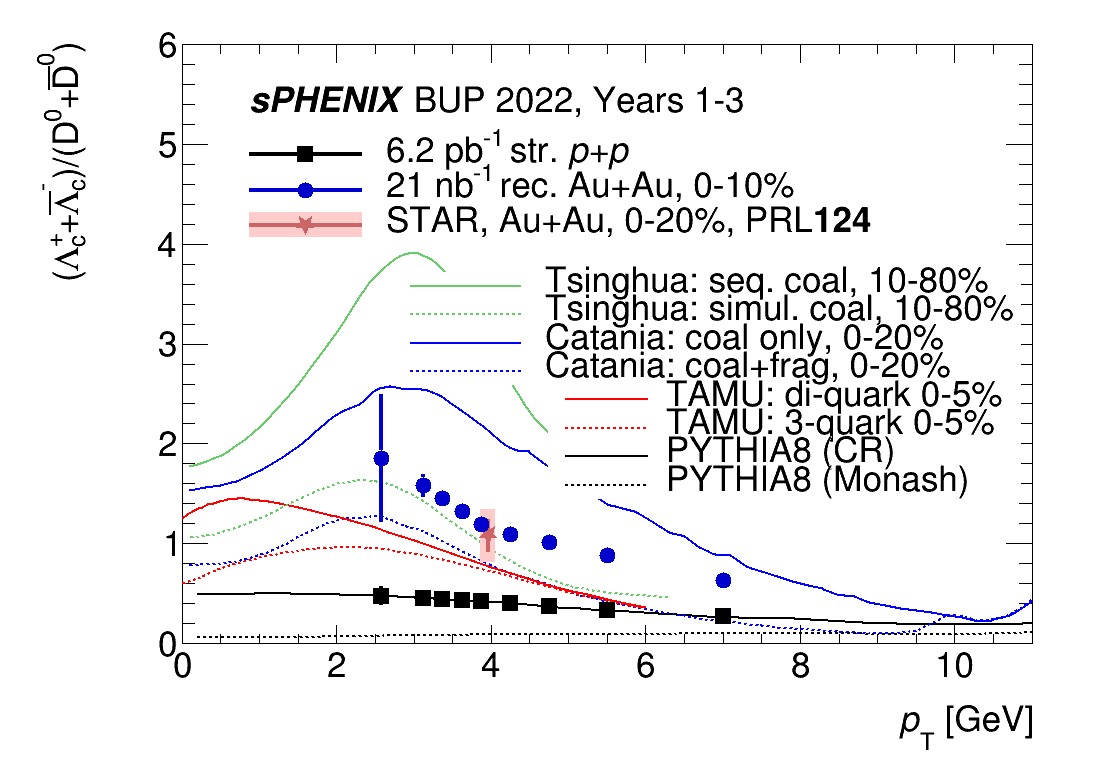
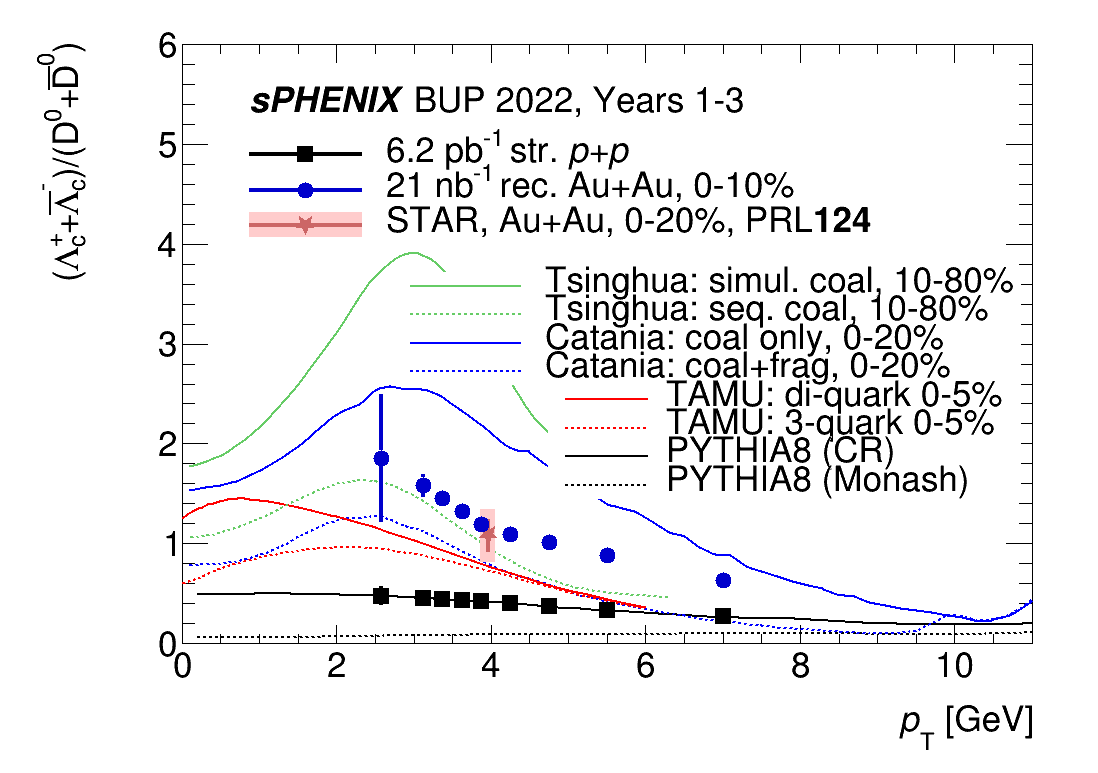
update plot

Changed region(s): [[0.6503, 0.3415, 0.929, 0.4347]]

diff --git a/HF-Particle/Lambda_c/fig/Lc_BUP2022_AuAu_3yr.C b/HF-Particle/Lambda_c/fig/Lc_BUP2022_AuAu_3yr.C
@@ -1,7 +1,7 @@
 void Lc_BUP2022_AuAu_3yr()
 {
 //=========Macro generated from canvas: Lc_BUP2022_AuAu_3yr/Lc_BUP2022_AuAu_3yr
-//=========  (Wed May 11 21:31:03 2022) by ROOT version 6.24/06
+//=========  (Thu May 12 08:26:25 2022) by ROOT version 6.24/06
    TCanvas *Lc_BUP2022_AuAu_3yr = new TCanvas("Lc_BUP2022_AuAu_3yr", "Lc_BUP2022_AuAu_3yr",0,23,1100,800);
    gStyle->SetOptStat(0);
    gStyle->SetOptTitle(0);
@@ -1253,7 +1253,7 @@ void Lc_BUP2022_AuAu_3yr()
    leg->SetLineWidth(1);
    leg->SetFillColor(0);
    leg->SetFillStyle(1001);
-   entry=leg->AddEntry("Graph5","Tsinghua: seq. coal, 10-80%","l");
+   entry=leg->AddEntry("Graph5","Tsinghua: simul. coal, 10-80%","l");
 
    ci = TColor::GetColor("#66cc66");
    entry->SetLineColor(ci);
@@ -1263,7 +1263,7 @@ void Lc_BUP2022_AuAu_3yr()
    entry->SetMarkerStyle(21);
    entry->SetMarkerSize(1);
    entry->SetTextFont(42);
-   entry=leg->AddEntry("Graph4","Tsinghua: simul. coal, 10-80%","l");
+   entry=leg->AddEntry("Graph4","Tsinghua: seq. coal, 10-80%","l");
 
    ci = TColor::GetColor("#66cc66");
    entry->SetLineColor(ci);
